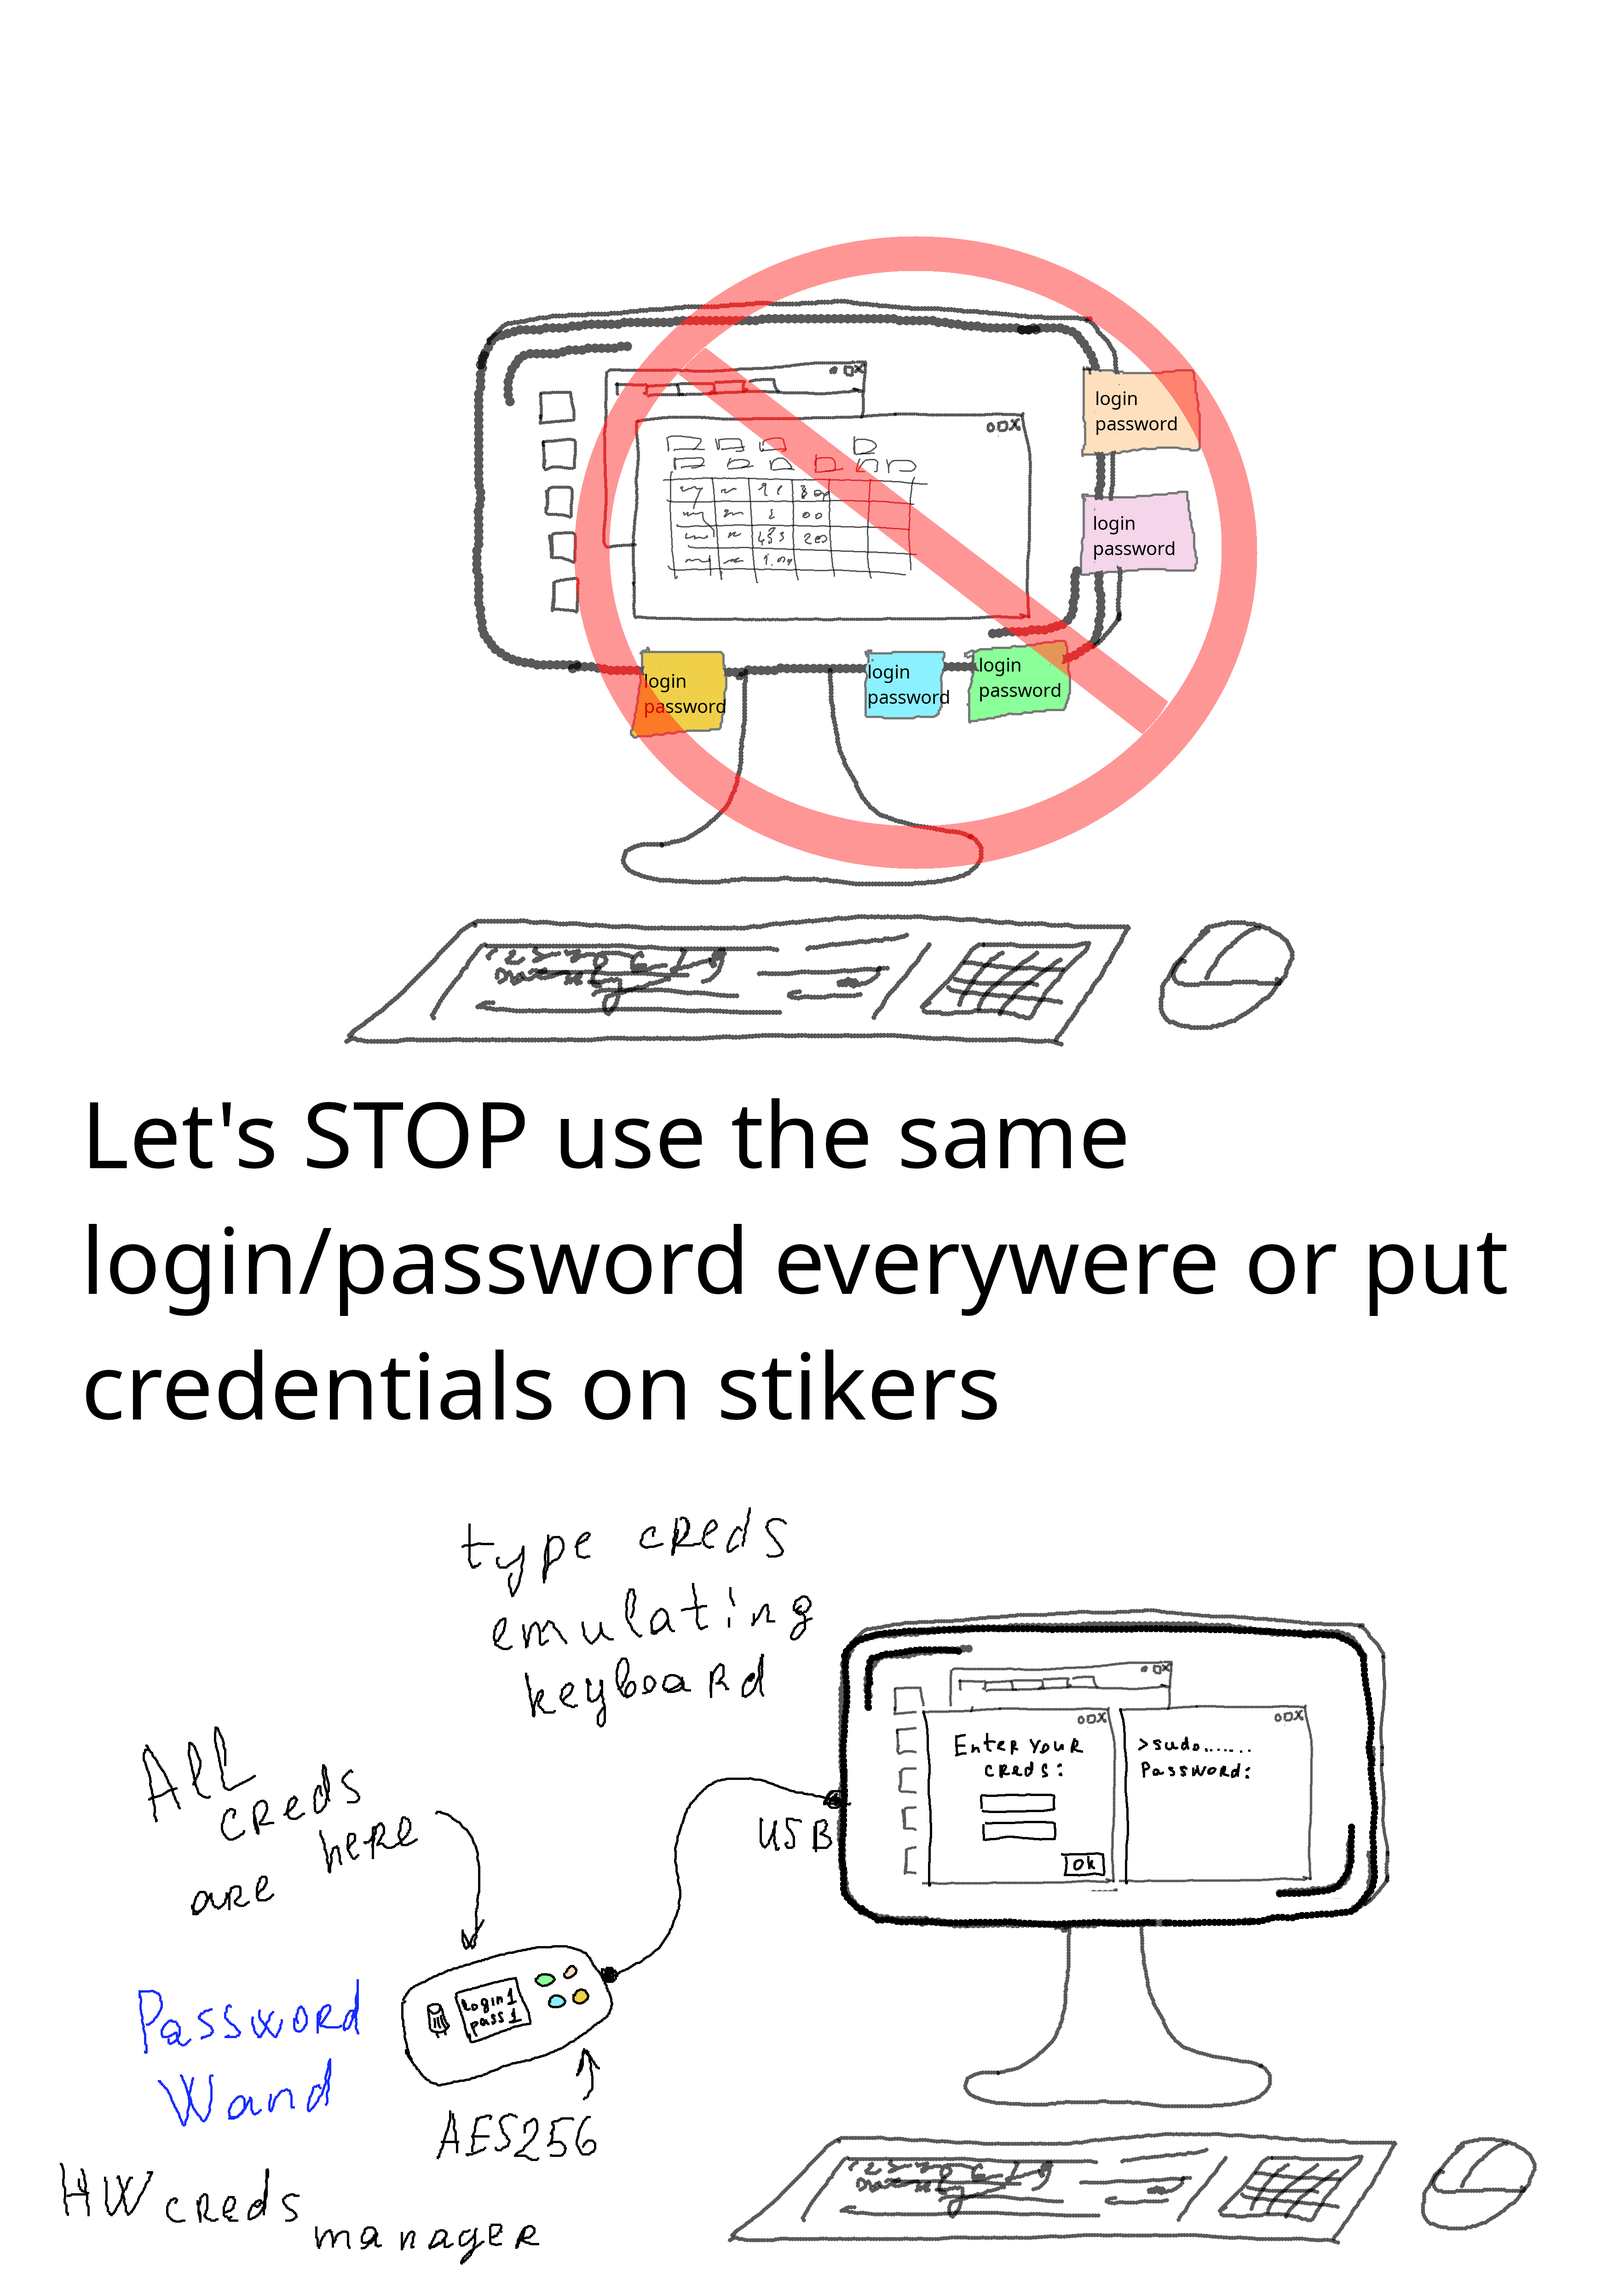
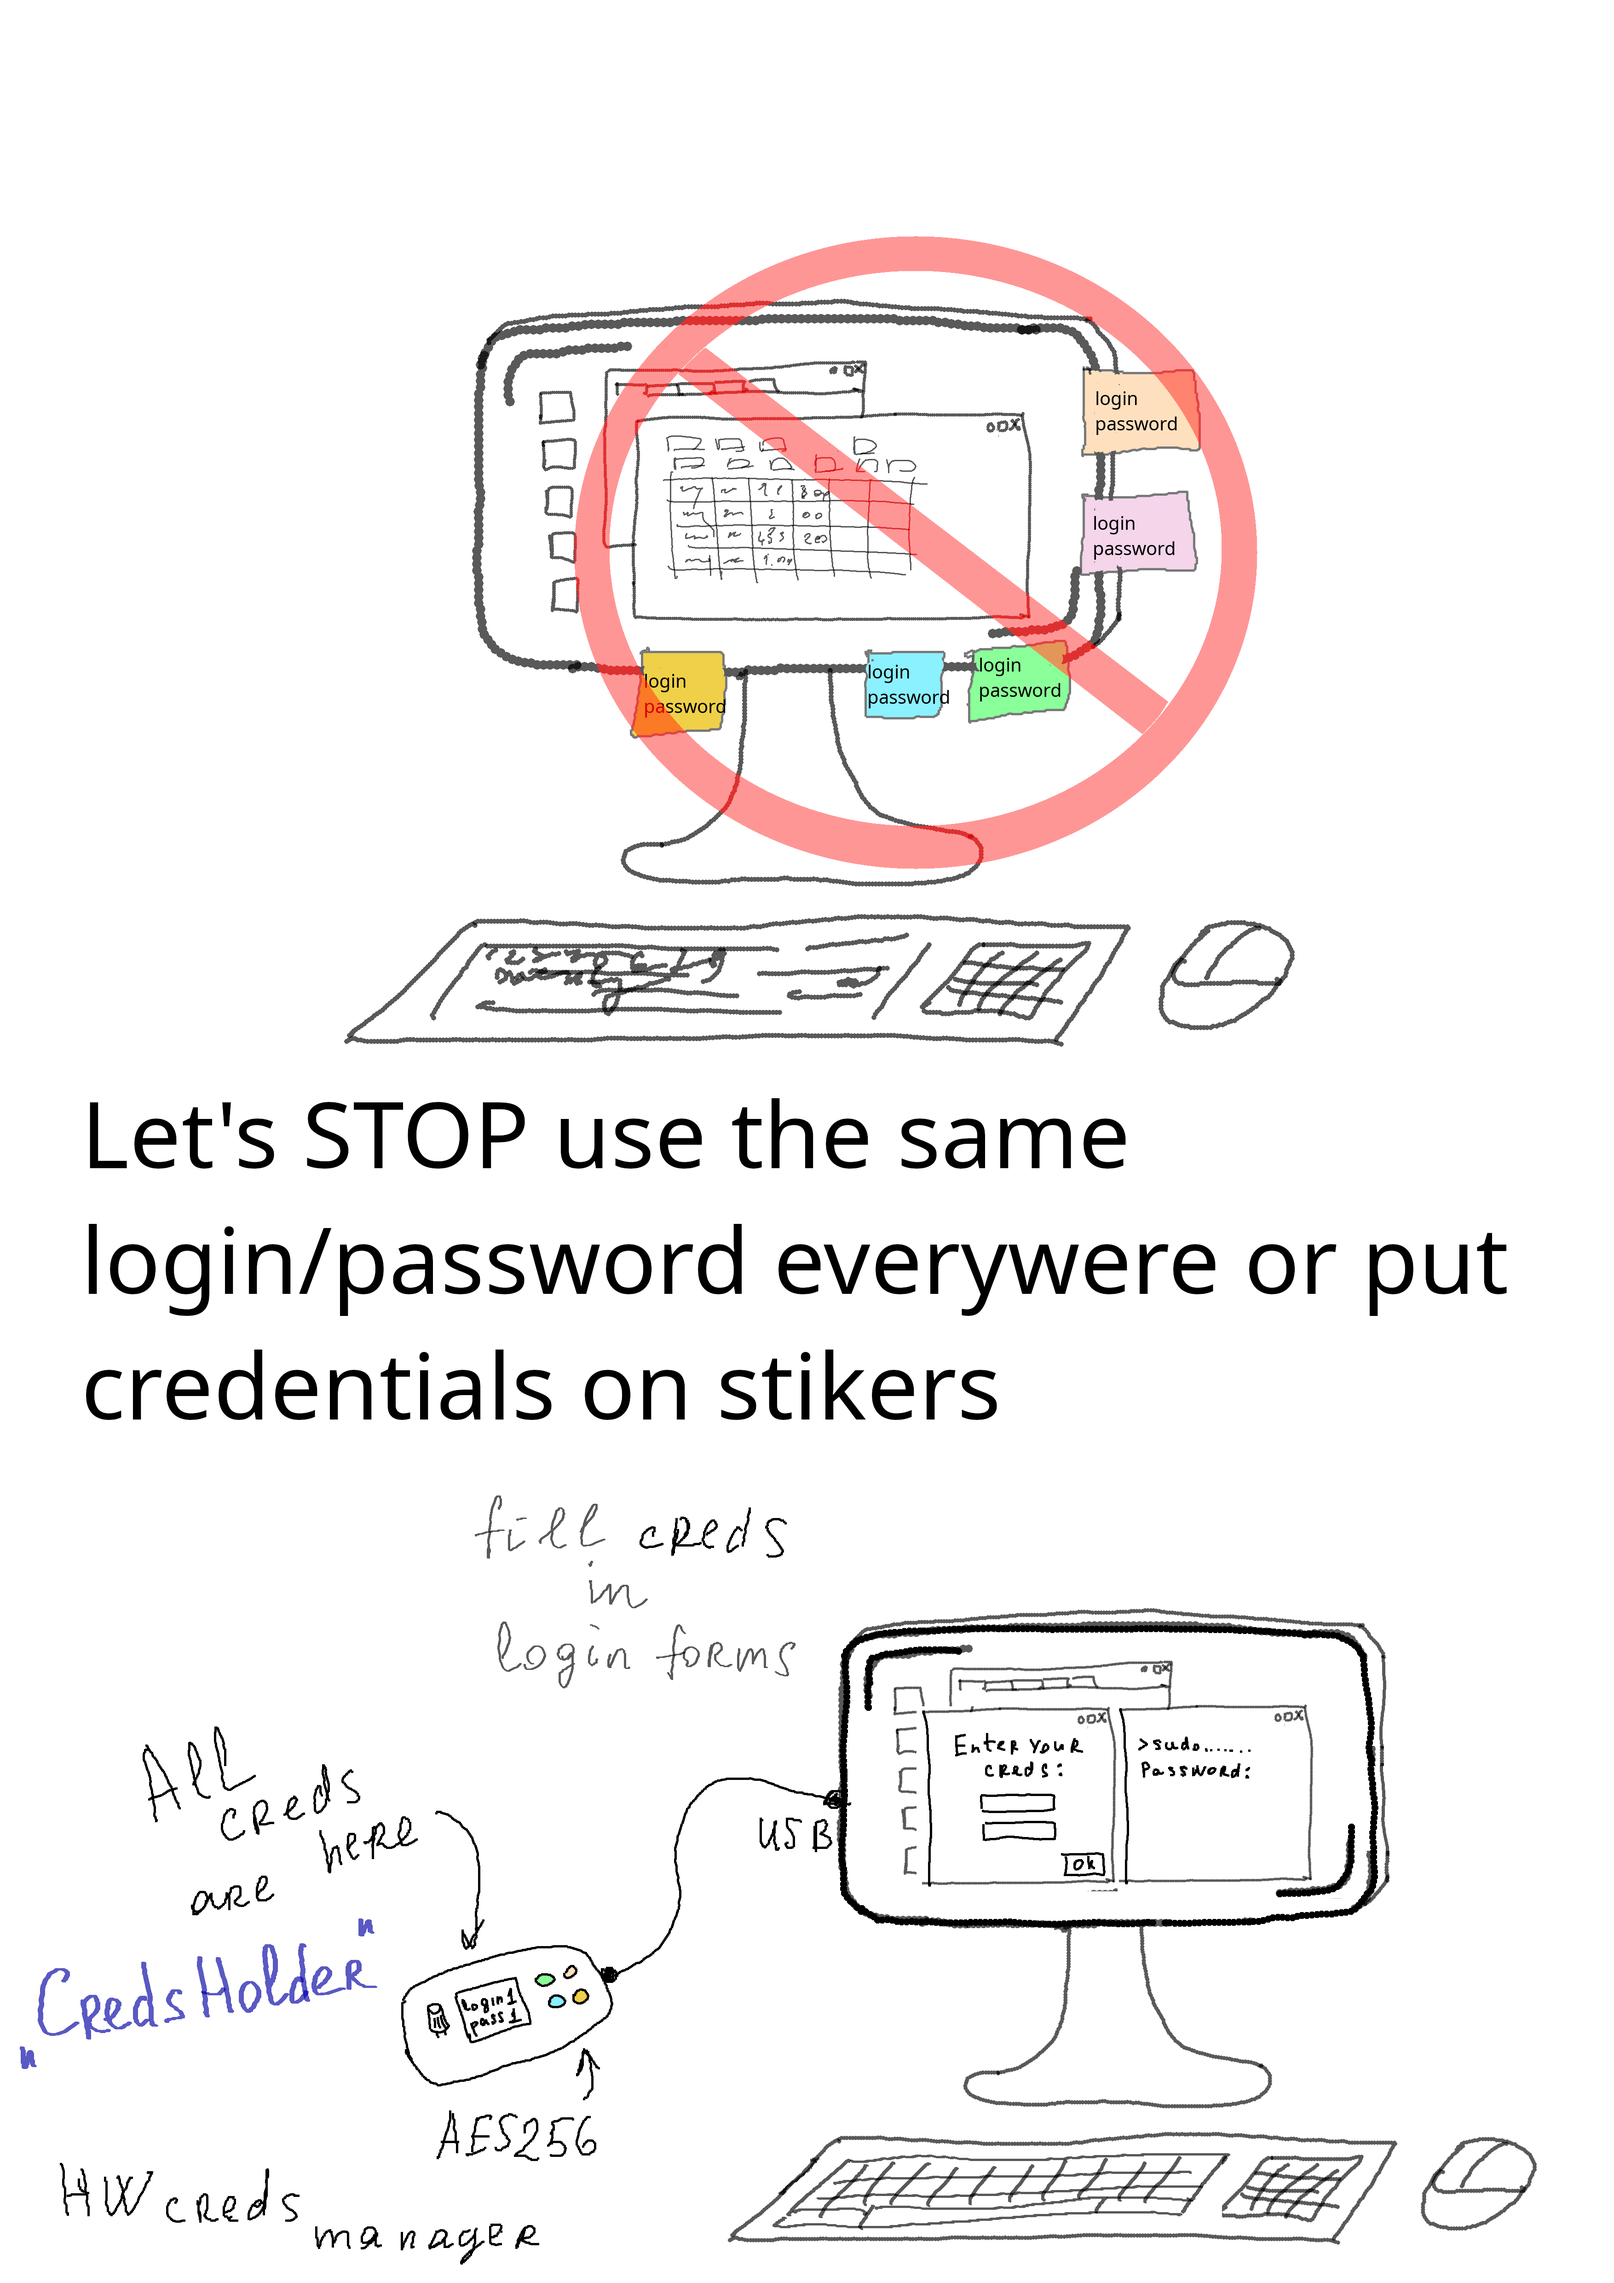
docs(README.md): update news and name in presentation slide
Remove news related to PusswordWand.
Add more reasons to start separate project.
Changed device title on slide from PasswordWand to CredsHolder.

Changed region(s): [[0.2796, 0.6562, 0.4971, 0.75], [0.0, 0.8438, 0.2175, 0.9062], [0.4971, 0.9375, 0.7457, 0.9688]]

diff --git a/README.md b/README.md
@@ -2,7 +2,7 @@
 
 Hardware credentials manager.
 
-Secure replacement of stickers on monitor with login and passwords.
+Secure replacement of stickers on monitor (and other similar stuff) with login and passwords.
 
 CredsHolder makes it easier to use good complex and unique passwords for your accounts on different web sites and other applications. 
 
@@ -10,24 +10,13 @@ CredsHolder makes it easier to use good complex and unique passwords for your ac
 
 # Project News
 
-## 03 Jun 2026
-
-* All original code of PasswordPump has been removed from the project. Code base has been developed from scratch.
-* AES128 has been replaced with AES256.
-* Code related to authentication and encrypted storage has been covered by unit tests (AUnit has been used).
-* Unfortunatelly **sketch is too big for Arduino Pro Micro** and need to decide how continue the project
-
-## 06 Jun 2026
-
-* Porting code to nRF52840 Pro Micro board is starting
-* Changing project license is planned
-
 ## 07 Aug 2026
 
 * Project has been renamed and started from scratch
   * Reason 1: license has been changed to MIT. I hope that will help for distribution.
-  * Reason 2: device redesign is needed to be long supported.
-  * Reason 3: to be not fork of PasswordPump will allow to configure Git LFS and store docs pictures originals.
+  * Reason 2: device SW and HW redesign is needed. Original PasswordPump code base is very complex to be maintainable and extendable.
+  * Reason 3: to be not a fork repo of PasswordPump will allow to configure Git LFS and store docs pictures originals in Git.
+  * Reason 4: do at least OpenSource project design and development accordign all best practices and without rush.
 
 ## This project is fork of ...
 
@@ -35,10 +24,3 @@ CredsHolder makes it easier to use good complex and unique passwords for your ac
 
 I'd like to thank Dan Murphy for PasswordPump. It's cool idea and device.
 I'm appreciate how many features has been implemented in orignal sketch.
-
-### Forking Reasons
-
-PasswordPump usability is too complex by my opinion.
-I'm sure that it's possible to make device more simple and usable.
-
-PasswordPumpII project is exist but it's based on board which price is in 5-7 times higher then for Arduino Pro Micro. Such cool device as hardware credential manager should be as cheaper as possible to be more accecible.
